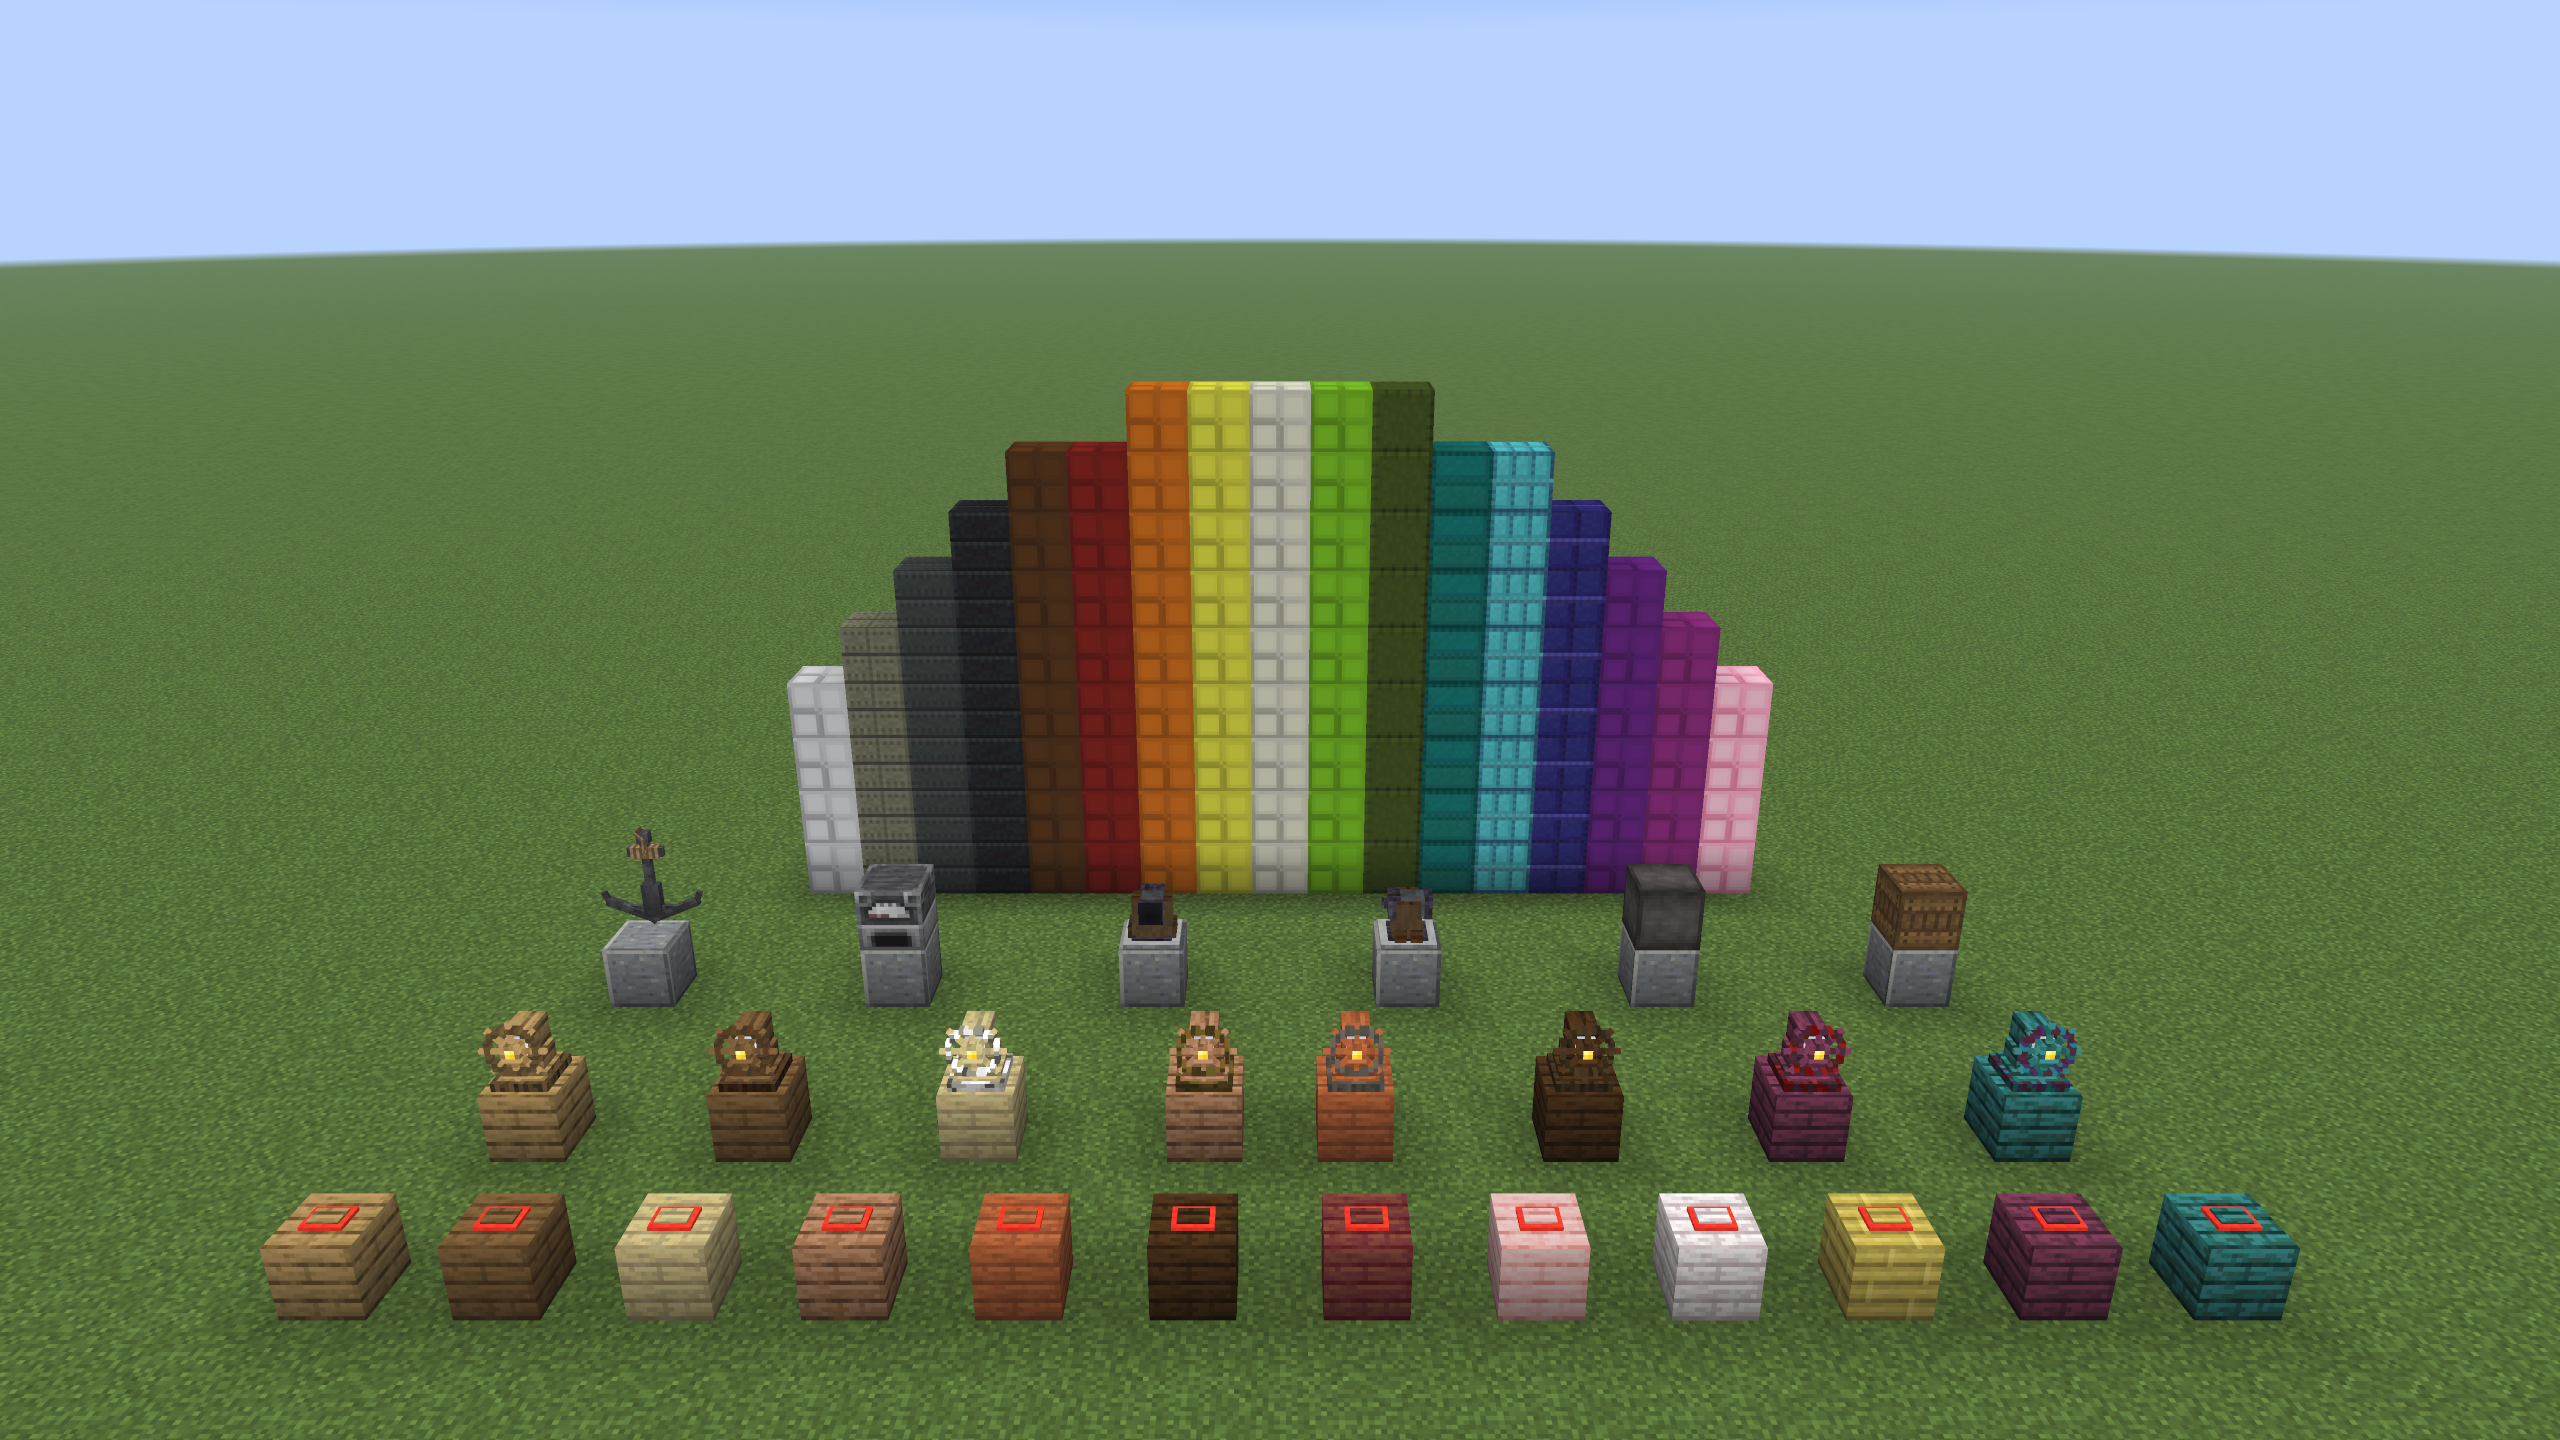
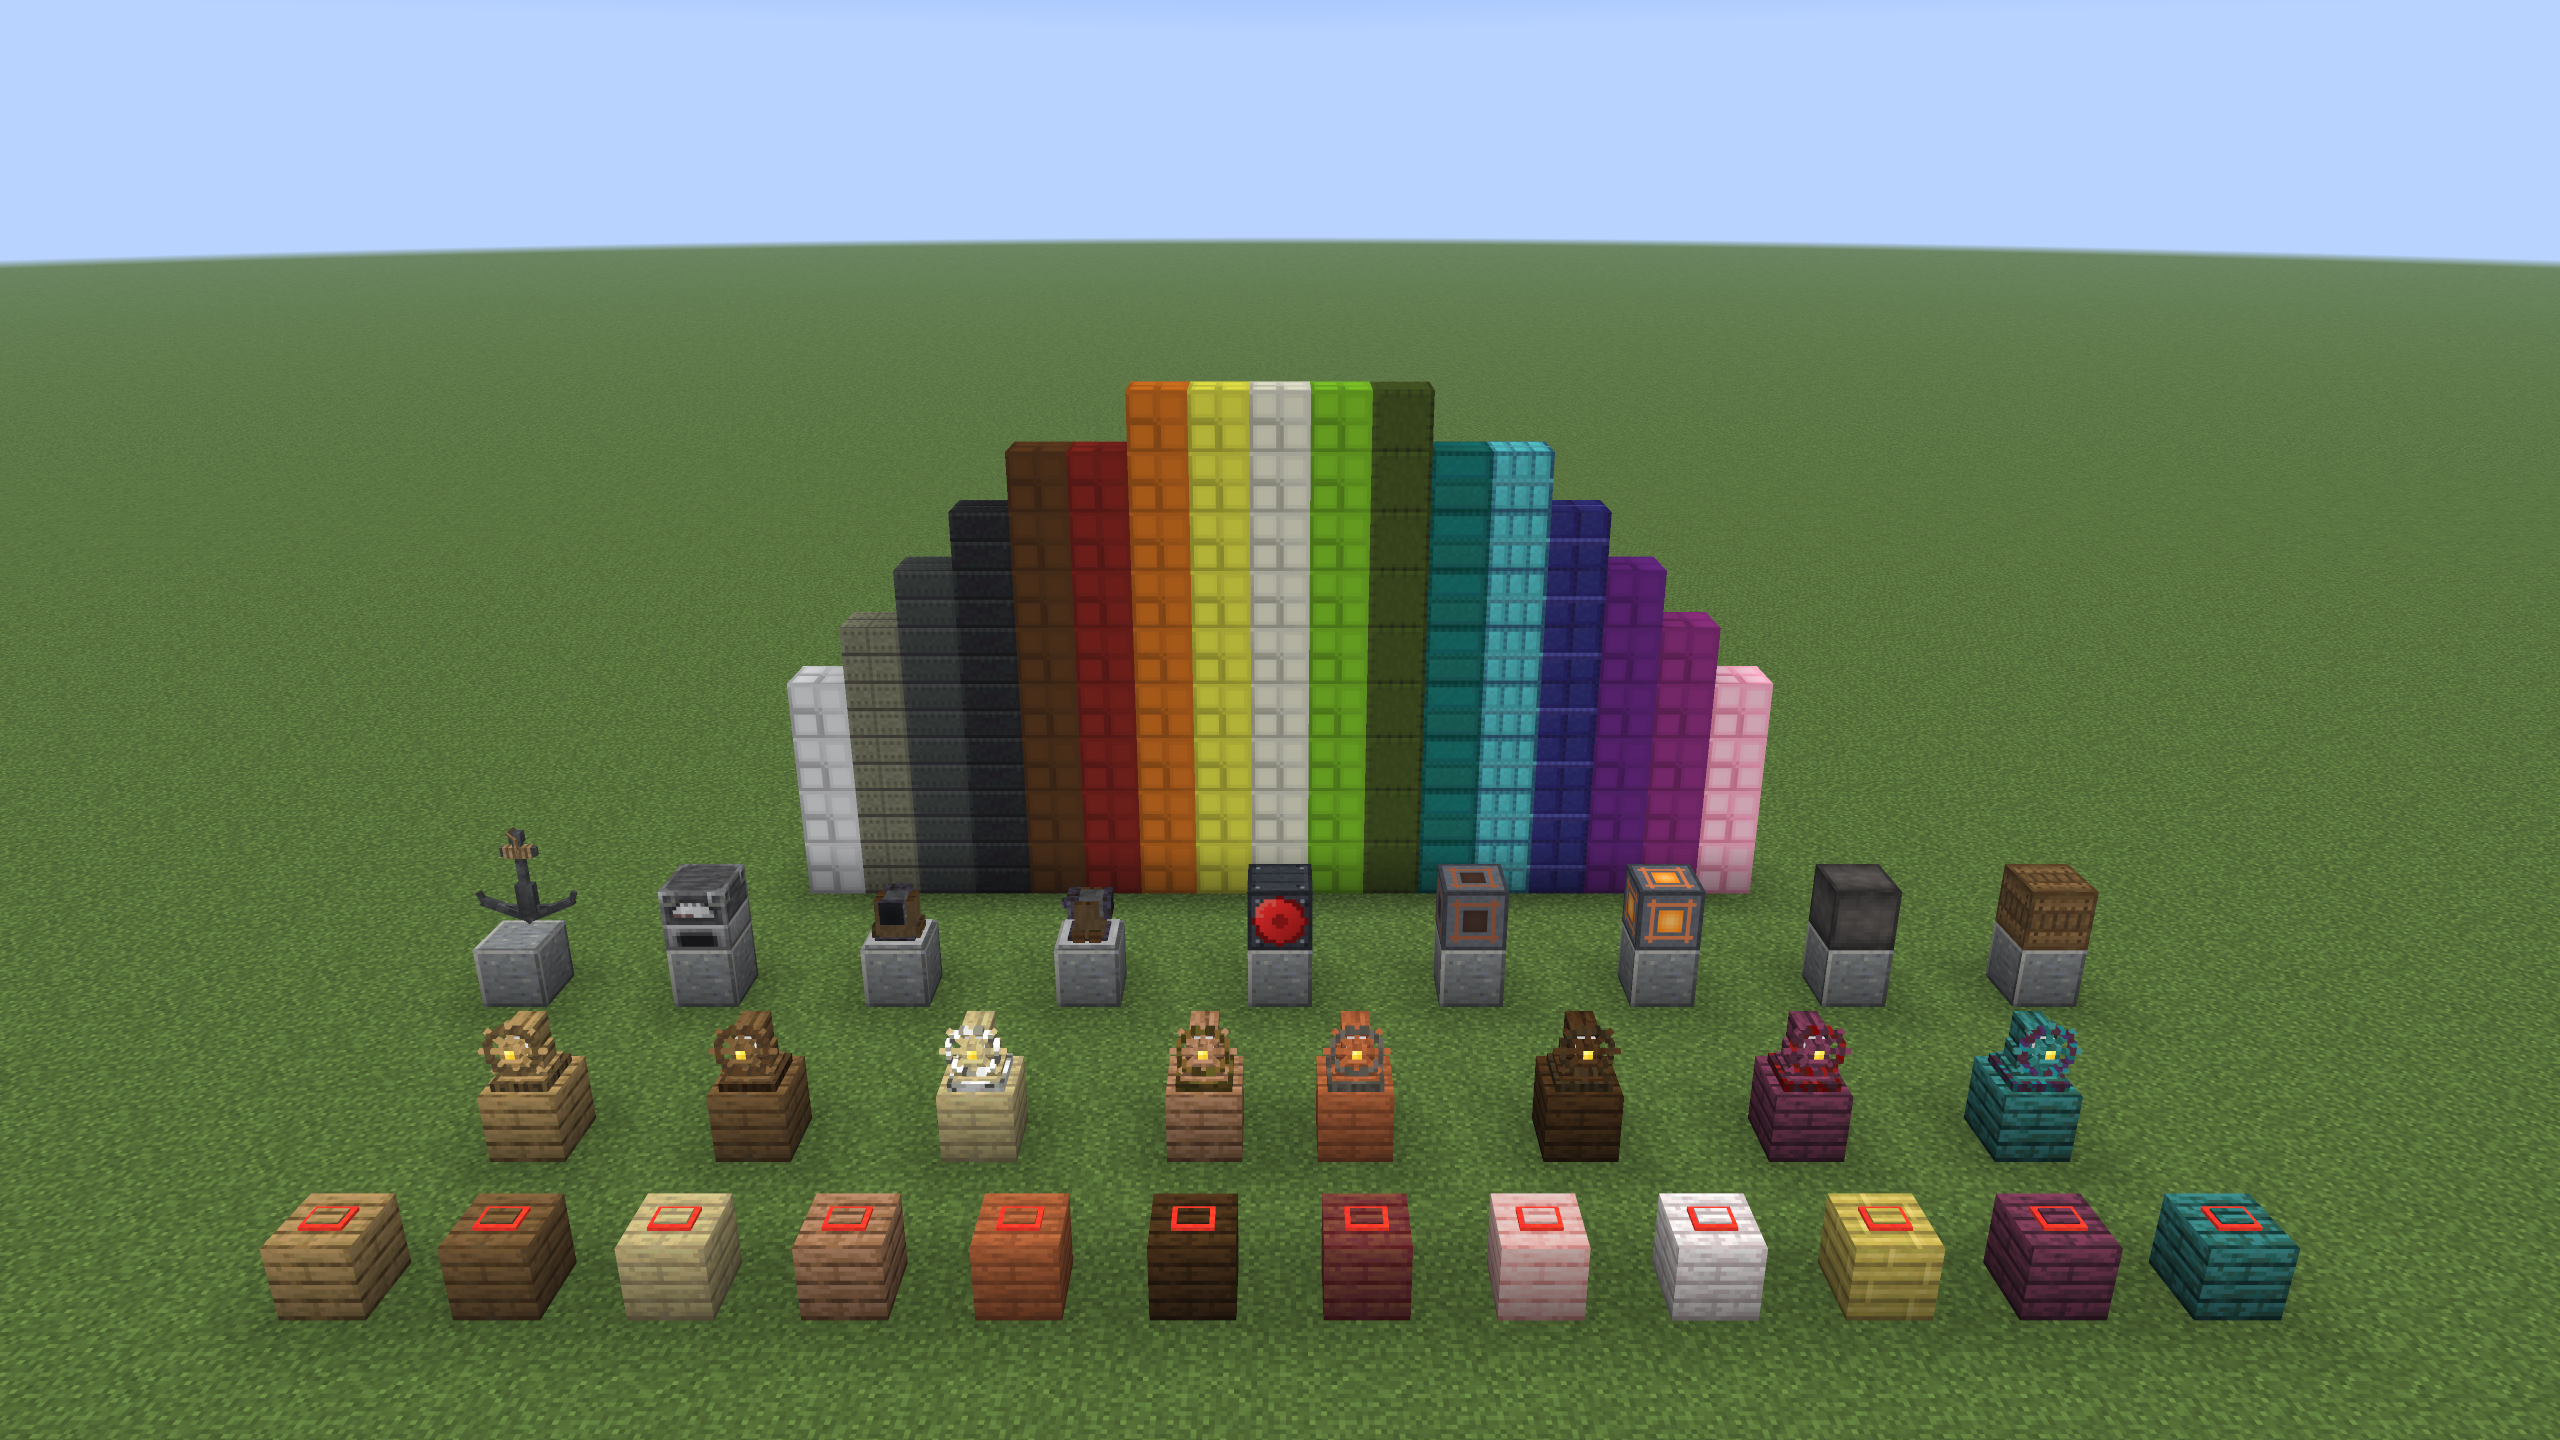
New pictures on the main page: Detacher, Electric Weight, throttle, Wiring and Ship Info screens, and every block

Changed region(s): [[0.4062, 0.5938, 0.5938, 0.7188], [0.625, 0.5938, 0.8438, 0.7188], [0.1875, 0.5625, 0.375, 0.7188]]

diff --git a/README.md b/README.md
@@ -71,6 +71,8 @@ Ships have a throttle, shown above your XP bar while you drive (**Throttle: 45%*
 
 The throttle took the place of cruise control.
 
+<img src="docs/images/throttle.jpg" alt="A player at the helm of an airship, with Throttle: 75% shown above the XP bar" width="100%">
+
 ### 🧭 Turning takes engines
 A ship with no engine running doesn't turn at all. Every running engine turns it a bit faster, and a heavier ship gets less out of each engine, up to 90° a second:
 
@@ -124,6 +126,8 @@ A dark metal block with a big red circle on one face. It works on a redstone sig
 - If the pole hits nothing, or only the ground, it comes back empty
 - If the other ship wouldn't fit against the red face, the pole comes back without it
 
+<img src="docs/images/detacher-grab.jpg" alt="A Detacher on the side of an airship with its metal pole reaching out to grab a small lifeboat" width="100%">
+
 **When it holds something, it lets go.** Whatever only hangs on through the red face becomes a ship of its own and gets pushed off the way the red face points. Its helm works again.
 
 - Place it on any side of a block. The red face points away from the block you put it on, so it can face any way
@@ -141,8 +145,12 @@ A simple block that switches like a copper bulb: every redstone pulse flips it o
 
 Use it as ballast you can switch, to sink a boat lower, trim a ship that leans, or bring an airship down.
 
+<img src="docs/images/electric-weight.jpg" alt="A Detacher with its red face, an Electric Weight switched off, and an Electric Weight switched on and glowing" width="100%">
+
 ### 🗺 The Wiring screen
 Open your helm and click the new **Wiring** button. You'll fly around a live 3D view of your ship, like in Blender.
+
+<img src="docs/images/wiring.jpg" alt="The Wiring screen over an airship: orange dots on two cannons, a purple dot on a Detacher and a blue dot on the helm, with lines showing what's wired to what" width="100%">
 
 - 🟠 **Orange dots** are your cannons, no buttons needed
 - 🟣 **Purple dots** are your detachers
@@ -178,6 +186,8 @@ Pressing **Assemble** on a helm doesn't build the ship straight away anymore. Yo
 - How many blocks will become the ship, and how big it is
 - A 3D view of **only** those blocks. Drag to turn it, scroll to zoom
 - If your boat is touching a dock, the ground or anything else, you'll see it right there
+
+<img src="docs/images/ship-info.png" alt="The Ship Info screen: a 3D view of an airship, 199 blocks will become the ship, 13 wide, 5 high, 11 long, with Assemble and Cancel buttons" width="100%">
 
 Press **Assemble** under the info to build the ship, or **Cancel** to go fix it. If it's touching the ground or something huge, the count turns red and Assemble is greyed out.
 
@@ -244,12 +254,12 @@ Everyone gets a quick hello with the credits and a Discord link when they join.
 
 ## 🧱 Every block
 
-<img src="docs/images/all-blocks.png" alt="Every block in the mod: 12 wireless buttons, 8 ship helms, anchor, engine, cannon, ballast, floater and 17 balloons" width="100%">
+<img src="docs/images/all-blocks.png" alt="Every block in the mod: 12 wireless buttons, 8 ship helms, anchor, engine, two cannons, detacher, electric weight off and on, ballast, floater and 17 balloons" width="100%">
 
 <a id="recipes"></a>
 ## 🛠 Recipes
 
-**All 32 original Eureka recipes are exactly the same as before.** If you know how to craft it in Eureka, you already know how to craft it here. The only additions are the Cannon, the Cannonballs and the Wireless Buttons. JEI shows every recipe in game.
+**All 32 original Eureka recipes are exactly the same as before.** If you know how to craft it in Eureka, you already know how to craft it here. The only additions are the Cannon, the Cannonballs, the Detacher, the Electric Weight and the Wireless Buttons. JEI shows every recipe in game.
 
 ### New recipes
 
